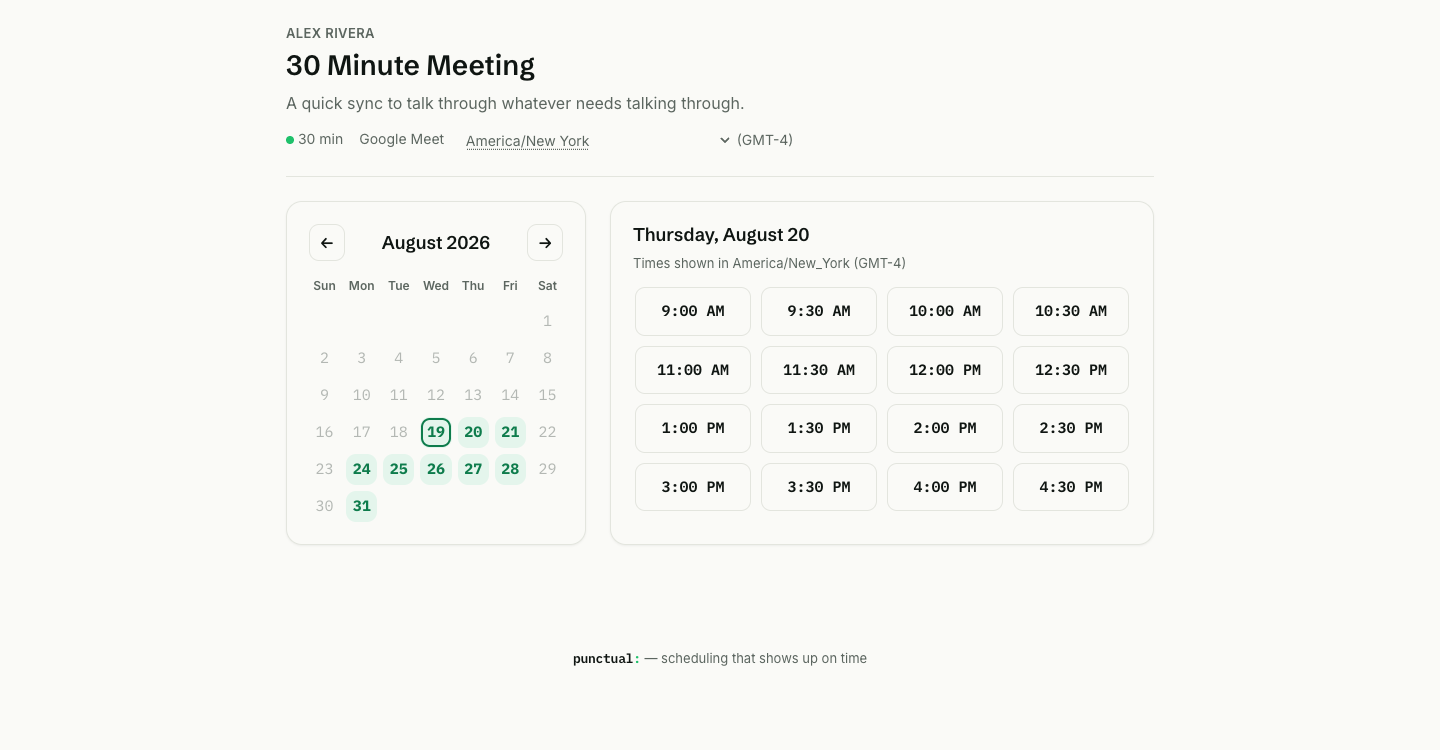
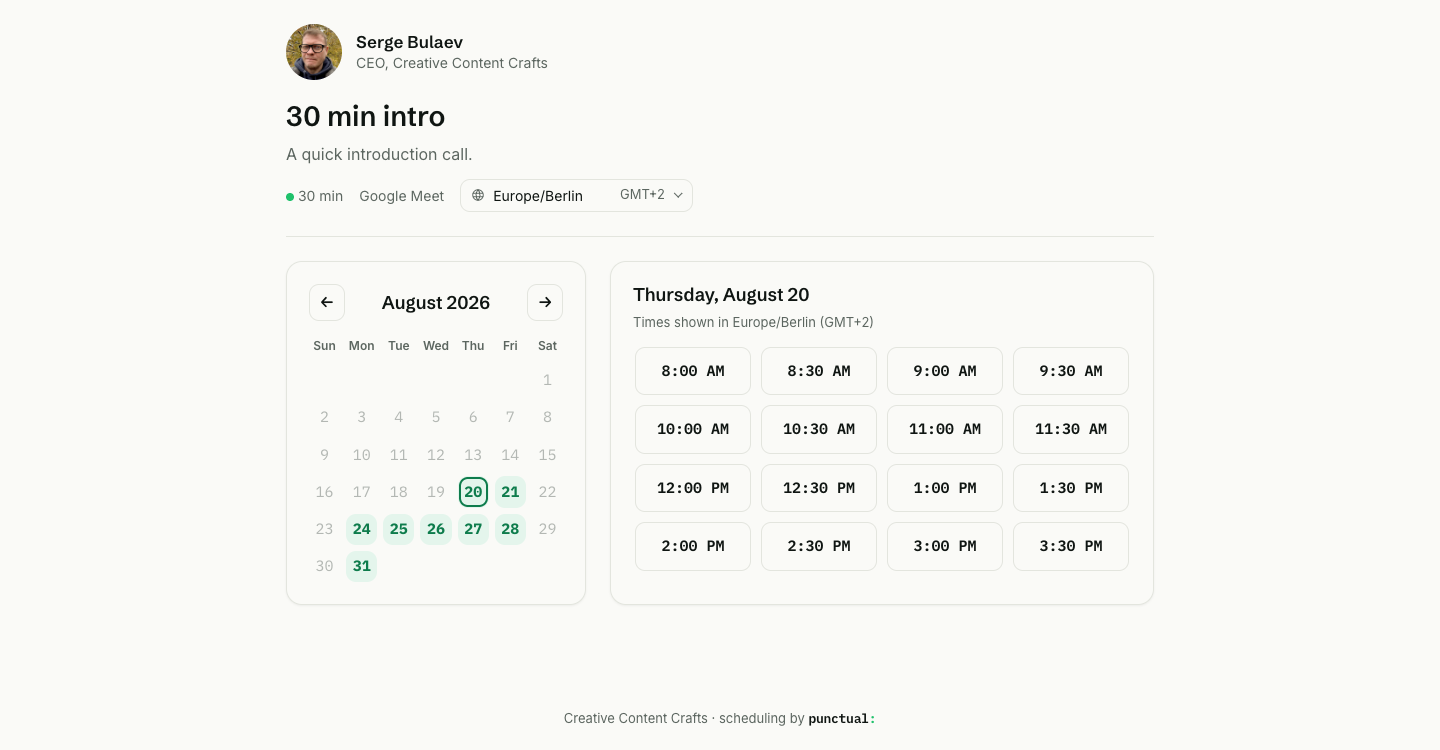
Real product screenshot, and a status line that isn't stale
The README screenshot was a mockup ("Alex Rivera"). Replaced with an
actual capture of the live booking page after the recent redesign —
real host photo, the timezone control's globe/offset chevron, the real
footer. Also: "pre-release, under active development" stopped being
true the moment v0.1.0 shipped.

diff --git a/README.md b/README.md
@@ -16,8 +16,8 @@ Calendly that runs entirely on Cloudflare Workers. Booking pages render at the
 edge; self-hosting is one `wrangler deploy` into your own Cloudflare account,
 $0 on the free tier.
 
-> **Status:** pre-release, under active development. The engine deploys and
-> takes bookings; interfaces may still change before 1.0.
+> **Status:** [v0.1.1](https://github.com/CCCrafts/punctual/releases/tag/v0.1.1)
+> released and live. Pre-1.0, so interfaces may still change.
 
 ## What it looks like
 
